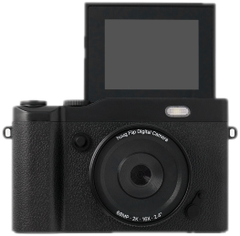
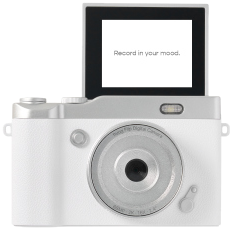
핀 아이콘 확대(레퍼런스 느낌), 플립류 크기 클래식에 맞춤, 플립 디카 흰색 이미지로 교체

diff --git a/styles.css b/styles.css
@@ -100,40 +100,40 @@ main {
 
 /* 카메라 핀: 카메라 디자인 + 이름 */
 .pin { background: none; border: 0; }
+.cam-pin { display: flex; flex-direction: column; align-items: center; }
 .cam-pin img {
   display: block;
-  width: 64px; height: 42px;
-  object-fit: contain;
+  height: auto; max-height: 92px;
   filter: drop-shadow(0 2px 3px rgba(0, 0, 0, 0.35));
 }
 .cam-name {
   position: absolute;
-  left: 50%; top: 40px;
+  left: 50%; top: 90px;
   transform: translateX(-50%);
-  padding: 1px 7px;
+  padding: 1px 8px;
   border-radius: 999px;
   background: rgba(255, 255, 255, 0.94);
   box-shadow: 0 1px 3px rgba(0, 0, 0, 0.2);
-  font-size: 11px;
+  font-size: 12px;
   font-weight: 700;
-  line-height: 16px;
+  line-height: 18px;
   white-space: nowrap;
   color: var(--text);
 }
-.cam-stack { position: relative; display: block; width: 72px; height: 48px; }
+.cam-stack { position: relative; display: block; width: 120px; height: 80px; }
 .cam-stack img {
   position: absolute;
-  top: 4px;
-  width: 44px; height: 36px;
+  top: 8px;
+  width: 64px; height: 56px;
   object-fit: contain;
   filter: drop-shadow(0 2px 3px rgba(0, 0, 0, 0.35));
 }
-.cam-stack.n1 img { left: 14px; width: 48px; }
-.cam-stack.n2 img:nth-child(1) { left: 2px;  transform: rotate(-8deg); }
-.cam-stack.n2 img:nth-child(2) { left: 26px; transform: rotate(6deg); }
-.cam-stack.n3 img:nth-child(1) { left: 0;    transform: rotate(-10deg); }
-.cam-stack.n3 img:nth-child(2) { left: 14px; top: 0; }
-.cam-stack.n3 img:nth-child(3) { left: 28px; transform: rotate(10deg); }
+.cam-stack.n1 img { left: 20px; width: 80px; height: 64px; top: 6px; }
+.cam-stack.n2 img:nth-child(1) { left: 6px;  transform: rotate(-8deg); }
+.cam-stack.n2 img:nth-child(2) { left: 48px; transform: rotate(6deg); }
+.cam-stack.n3 img:nth-child(1) { left: 2px;  transform: rotate(-10deg); }
+.cam-stack.n3 img:nth-child(2) { left: 28px; top: 2px; }
+.cam-stack.n3 img:nth-child(3) { left: 54px; transform: rotate(10deg); }
 
 /* 하단 시트 */
 .sheet-backdrop { position: absolute; inset: 0; z-index: 900; background: rgba(0, 0, 0, 0.25); }

diff --git a/src/map.js b/src/map.js
@@ -6,6 +6,9 @@ const MODEL_BY_ID = new Map(MODELS.map((m) => [m.id, m]));
 const REGION = [[37.40, 126.58], [37.66, 127.16]];
 const MAX_ZOOM = 15; // 동네 단위까지만 확대
 
+// 핀 아이콘 표시 너비(px). 모델마다 사진 비율이 달라서, 본체가 클래식 디카와 비슷한 크기로 보이도록 맞춘다.
+const ICON_WIDTH = { classic: 96, millennium: 96, western: 96, neo: 96, 'retro-digi': 96, flip270: 96, flip: 88, 'retro-flip': 80 };
+
 export function initMap(el, pins, onPinSelect) {
   const region = L.latLngBounds(REGION);
   const map = L.map(el, {
@@ -34,9 +37,9 @@ export function initMap(el, pins, onPinSelect) {
     const model = MODEL_BY_ID.get(pin.model);
     const icon = L.divIcon({
       className: 'pin cam-pin',
-      html: `<img src="${model.icon}" alt=""><span class="cam-name">${model.name}</span>`,
-      iconSize: [64, 56],
-      iconAnchor: [32, 28],
+      html: `<img src="${model.icon}" alt="" style="width:${ICON_WIDTH[model.id] ?? 96}px"><span class="cam-name">${model.name}</span>`,
+      iconSize: [104, 112],
+      iconAnchor: [52, 46],
     });
     const marker = L.marker([pin.lat, pin.lng], { icon, title: `${model.name} · ${pin.place}`, model: pin.model });
     marker.on('click', () => onPinSelect(pin));
@@ -53,8 +56,8 @@ export function initMap(el, pins, onPinSelect) {
       return L.divIcon({
         className: 'pin cam-cluster marker-cluster',
         html: `<span class="cam-stack n${ids.length}">${imgs}</span><span class="pin-count">${cluster.getChildCount()}</span>`,
-        iconSize: [72, 56],
-        iconAnchor: [36, 28],
+        iconSize: [120, 80],
+        iconAnchor: [60, 40],
       });
     },
   });
